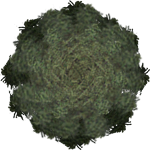
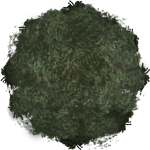
Some fixes

diff --git a/MapCreator/Classes/MapCreation/MapFixtures.cs b/MapCreator/Classes/MapCreation/MapFixtures.cs
@@ -222,8 +222,9 @@ namespace MapCreator
                             new Percentage(100 - treeImagesRConf.ShadowTransparency),
                             treeImagesRConf.ShadowColor
                         );
-                    }
 
+                    }
+                    
                     if (treeImagesRConf.Transparency != 0)
                     {
                         treeOverlay.Alpha(AlphaOption.Set);
@@ -343,7 +344,6 @@ namespace MapCreator
 
         private void DrawImage(MagickImage overlay, DrawableFixture fixture)
         {
-
             //MainForm.Log(string.Format("Image: {0} ({1}) ...", fixture.Name, fixture.NifName), MainForm.LogLevel.notice);
             string fileName = System.IO.Path.GetFileNameWithoutExtension(fixture.NifName);
             string defaultTree = "elm1";
@@ -418,8 +418,10 @@ namespace MapCreator
                         double scaleHeightToTreeImage = objectSize.Height / newModelImage.Height;
                         int width = Convert.ToInt32(newModelImage.Width * scaleWidthToTreeImage * fixture.Scale);
                         int height = Convert.ToInt32(newModelImage.Height * scaleHeightToTreeImage * fixture.Scale);
-                        
+
                         // Resize to new size
+                        newModelImage.FilterType = FilterType.Gaussian;
+                        newModelImage.VirtualPixelMethod = VirtualPixelMethod.Transparent;
                         newModelImage.Resize(width, height);
 
                         // Rotate the image
@@ -437,20 +439,25 @@ namespace MapCreator
                         {
                             foreach (DrawableElement drawableElement in fixture.DrawableElements)
                             {
+                                var light = 1 - drawableElement.lightning;
                                 modelShaped.FillColor = new MagickColor(
-                                    Convert.ToUInt16(128 * 256 * drawableElement.lightning),
-                                    Convert.ToUInt16(128 * 256 * drawableElement.lightning),
-                                    Convert.ToUInt16(128 * 256 * drawableElement.lightning)
+                                    Convert.ToUInt16(ushort.MaxValue * light),
+                                    Convert.ToUInt16(ushort.MaxValue * light),
+                                    Convert.ToUInt16(ushort.MaxValue * light)
                                 );
 
                                 DrawablePolygon polyDraw = new DrawablePolygon(drawableElement.coordinates);
                                 modelShaped.Draw(polyDraw);
                             }
 
-                            // Remove outstanding edges from the shape using the replacing image
-                            modelShaped.Composite(modelImage, 0, 0, CompositeOperator.DstIn);
-                            // Enlight the replacing image using the shape
-                            modelImage.Composite(modelShaped, 0, 0, CompositeOperator.Overlay);
+                            using(MagickImage modelMask = new MagickImage(MagickColor.Transparent, fixture.CanvasWidth, fixture.CanvasHeight))
+                            {
+                                modelShaped.Blur();
+                                modelMask.Composite(modelShaped, 0, 0, CompositeOperator.DstAtop);
+                                modelMask.Composite(modelImage, 0, 0, CompositeOperator.DstIn);
+                                modelMask.Level(new Percentage(20), new Percentage(100), Channels.All);
+                                modelImage.Composite(modelMask, 0, 0, CompositeOperator.ColorDodge);
+                            }
                         }
                     }
 
